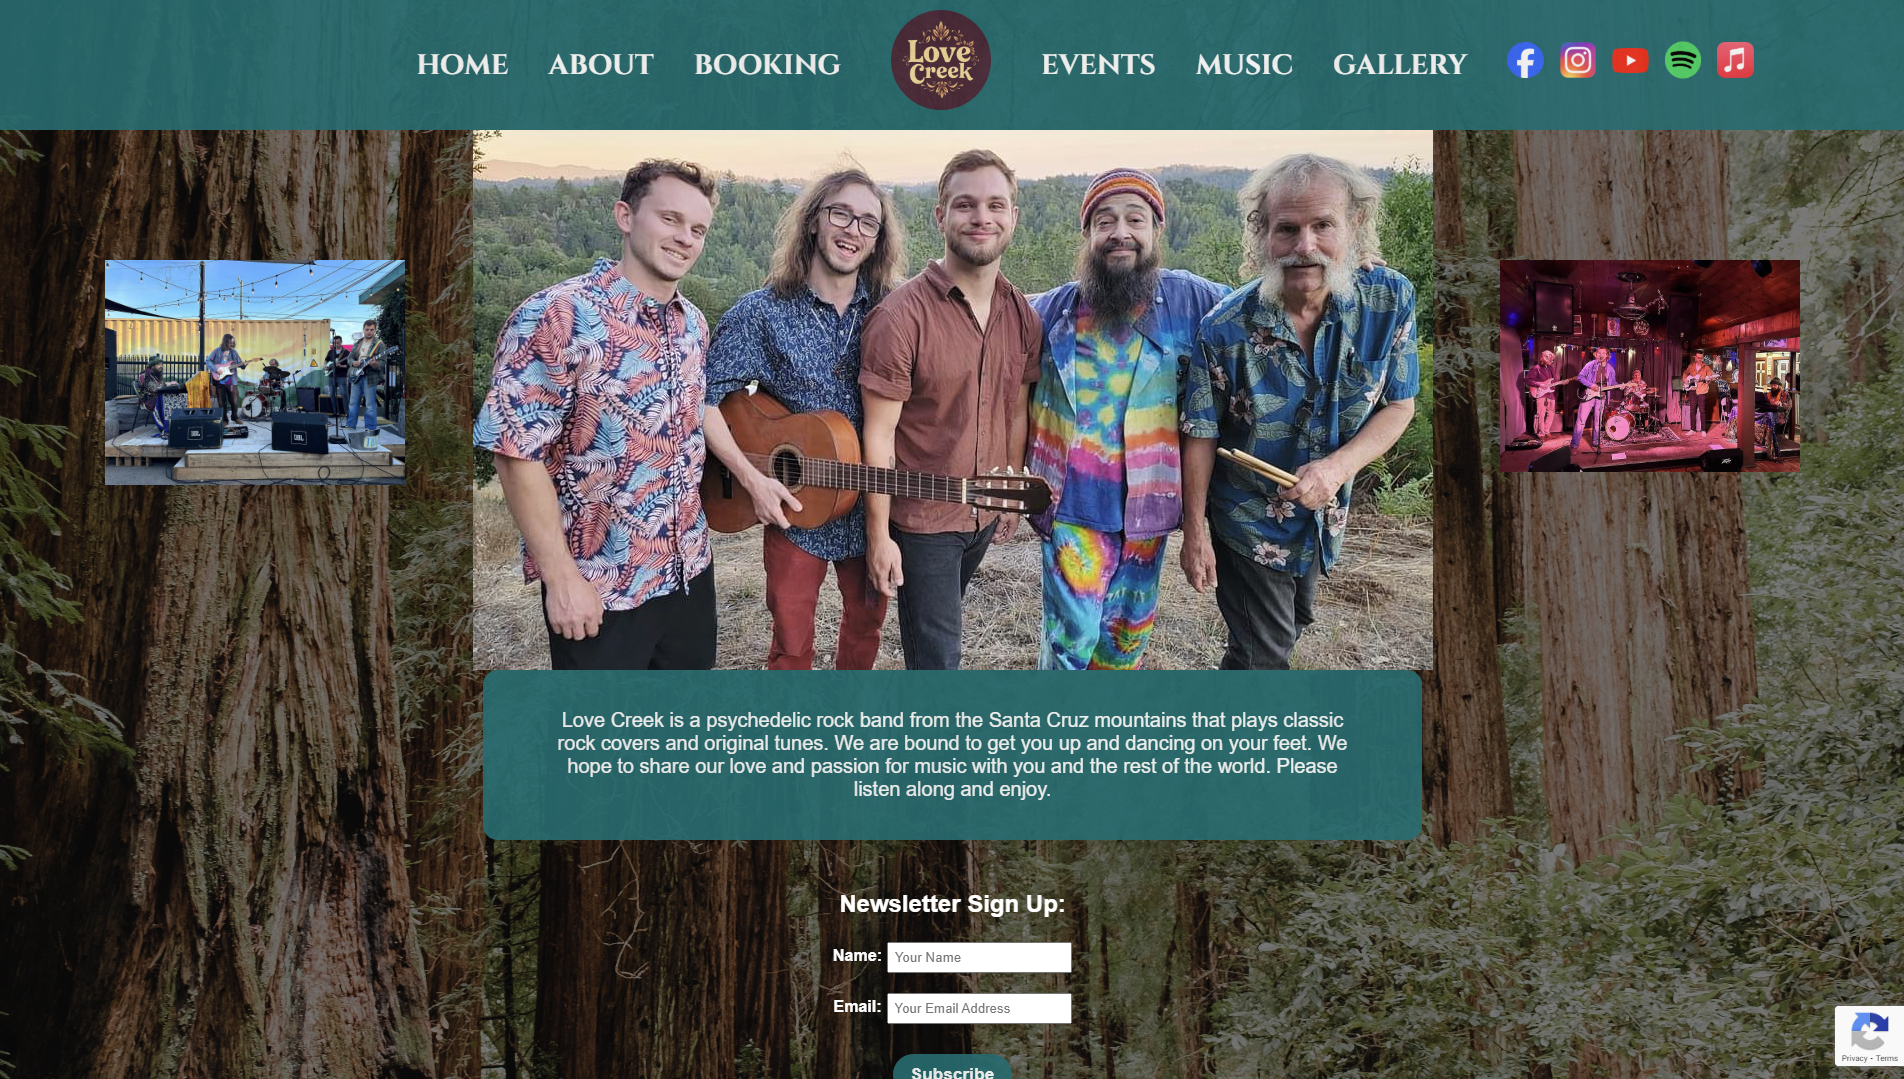
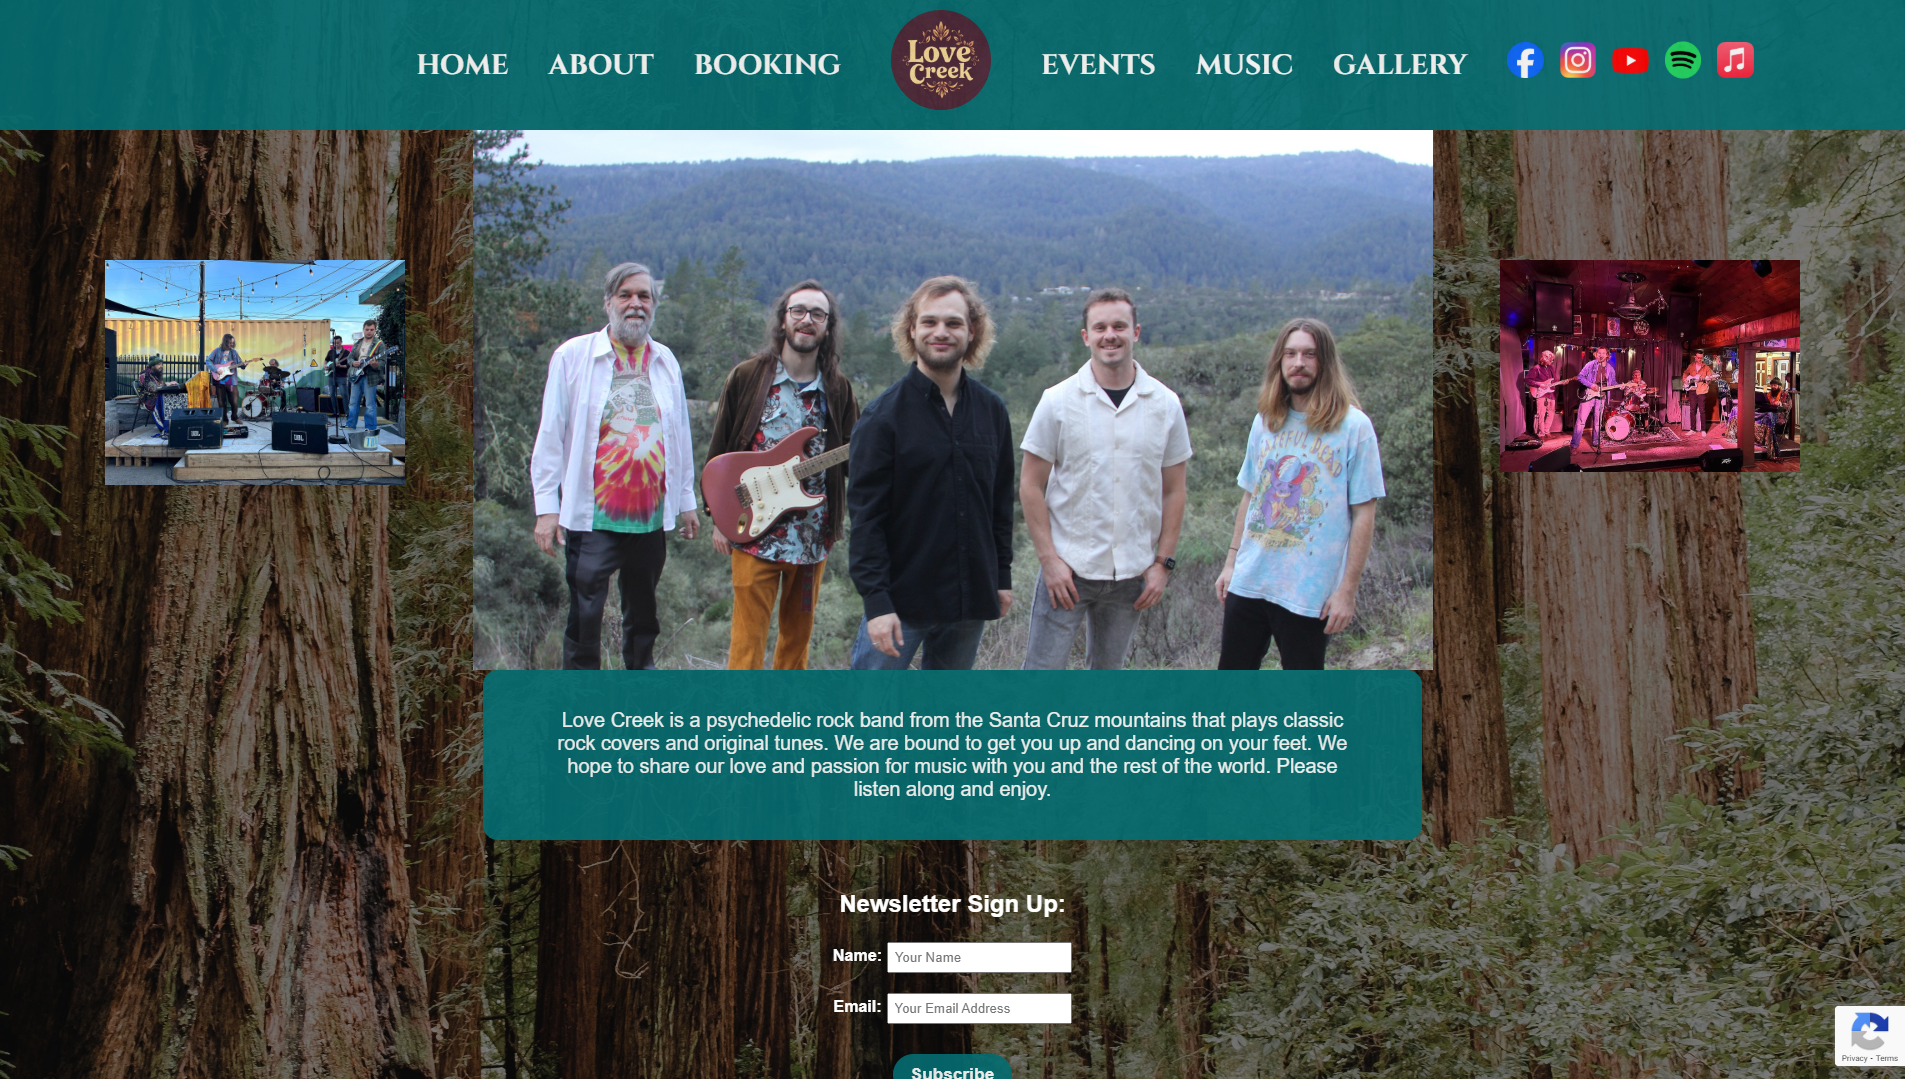
Updated text and love creek pic

diff --git a/index.html b/index.html
@@ -296,7 +296,7 @@
         <h2 class="section-title">Skills & Education</h2> 
         <div class="skills-grid">
             <div class="skill-tile">
-                <div class="skill-icon">⚛</div>
+                <div class="skill-icon">📱</div>
                 <div class="skill-name">Frontend</div>
                 <div class="skill-description">Craft custom, user-friendly interfaces</div>
                 <div class="skill-tech">HTML • CSS • JavaScript</div>
@@ -327,7 +327,7 @@
                 <div class="skill-icon">🔒</div>
                 <div class="skill-name">Security</div>
                 <div class="skill-description">Protect users and data through secure development practices</div>
-                <div class="skill-tech">Data Validation • Authorization / Authentication • RBAC • Secure APIs</div>
+                <div class="skill-tech">Authentication • HTTPS/SSL • Input Validation • Access Control • Secure APIs</div>
             </div>
 
             <div class="skill-tile">
@@ -348,18 +348,19 @@
                 <div class="contact-label">Website Development & Design</div>
                 <ul class="service-description">
                     <li>
-                        I build modern, reliable custom websites that help businesses get noticed, look professional, and turn visitors into customers.
+                        I design and build modern, reliable custom websites that help businesses get noticed and look professional in Santa Cruz, CA and beyond. 
+                        I also rebuild existing websites to improve usability and visitor engagement.
                     </li>
                     <li>
-                        Whether you want a complete website launched and handed over, or ongoing development support and updates,
-                        I’m here to help you get online as simply as possible.
+                        Whether you want a complete website launched and handed over, or ongoing hosting and maintenance,
+                        I’m here to help you get online as simply as possible. 
                     </li>                                                         
                     <li>
                         From layout and visual design to interaction and mobile accessibility,
                         I craft sites that deliver a smooth user experience and are thoroughly tested before launch.
                     </li>
                     <li>
-                        I redesign and rebuild existing websites to improve usability, conversions, and visitor engagement.
+                        Every site includes 30 days of post-launch minor adjustments and fixes to reinforce website stability.
                     </li>              
                     <li>
                         I can implement custom functionality such as contact forms, database integration, user accounts, admin panels,
@@ -373,18 +374,19 @@
                 <div class="contact-label">Hosting & Maintenance</div>
                 <ul class="service-description">
                     <li>
-                        I handle deployment of your site to a live, production-ready hosting environment.
+                        Ongoing hosting and maintenance plans are available to keep your site secure, up to date, and performing reliably.
+                        Pricing is quoted separately based on the level of ongoing support your site requires.
                     </li>                    
                     <li>
-                        Custom branded domain setup and HTTPS/SSL configuration so your site reflects your brand identity,
-                        is easy to remember, and is secure and trusted by modern browsers.
+                        I handle deployment of your site to a live, production-ready hosting environment to ensure a stable, stress-free launch with dependable performance.
                     </li>                         
                     <li>
-                        Every site includes 30 days of post-launch minor adjustments and fixes to reinforce website stability.
+                        Custom branded domain setup and HTTPS/SSL configuration so your site reflects your brand identity,
+                        is easy to remember, and is secure and trusted by visitors.
+                        
                     </li>
                     <li>
-                        Optional ongoing maintenance plans are available to keep your site secure, up to date, and performing reliably.
-                        Pricing is quoted based on the level of ongoing support your site requires.
+                        Maintenance and hosting plans are designed for long-term reliability and peace of mind after launch.
                     </li>                     
                     <li>
                         Ongoing support can include content and platform updates, security monitoring, backup and restore assistance, health and performance checks,

diff --git a/styles.css b/styles.css
@@ -77,6 +77,7 @@ body {
   width: 60px;
   border-radius: 5px;
   transition: transform 0.3s ease;
+  margin-right: 24px;
 }
 
 .nav-logo img:hover {
@@ -618,7 +619,6 @@ body {
 .service-description li {
     margin-bottom: 1rem;       
     line-height: 1.6;   
- 
 }
 
 .form-tile {
